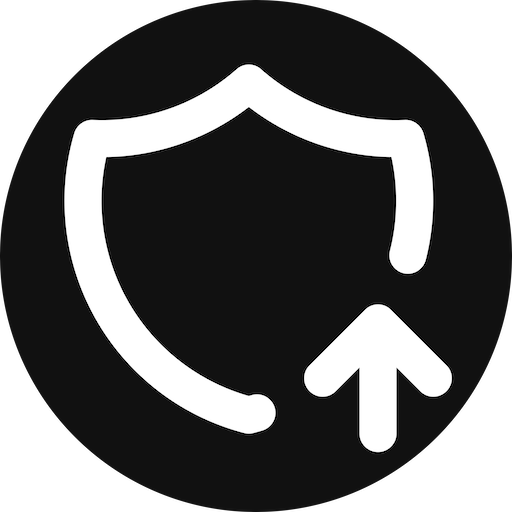
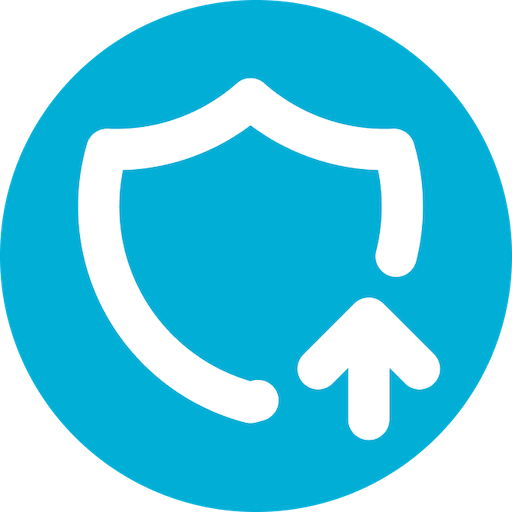
fix: initialize

diff --git a/src/options.tsx b/src/options.tsx
@@ -1,3 +1,5 @@
+import iconImageData from "data-base64:~assets/icon-min.png"
+
 import { useStorage } from "@plasmohq/storage/hook"
 
 import {
@@ -7,7 +9,7 @@ import {
 } from "~lib/constants"
 
 import "./style.css"
-import ShieldIcon from "~components/shieldIcon"
+
 
 function IndexOptions() {
   const [blackList, setBlackList] = useStorage<string | undefined>(
@@ -25,43 +27,67 @@ function IndexOptions() {
 
   return (
     <>
-    <div className="container mx-auto px-4 max-w-[1024px] py-10">
-      <h1 className="text-4xl font-bold flex gap-2 items-center"><ShieldIcon />IME Submit Blocker</h1>
-      <p className="text-sm mt-4">IMEでの日本語変換確定時のEnterでFormが送信されることを防ぐ拡張機能。※ 不具合、改善要望はGitHubの<a href="https://github.com/kawamataryo/ime-submit-blocker" className="link">Issue</a>へ。</p>
-      <div className="mt-8">
-        <label className="text-xl font-bold">Auto Apply</label>
-        <p className="text-sm">自動で適応するかどうか。ONの場合は、Black Listに登録されているサイトを除き自動的に適応する。</p>
-        <input
-          type="checkbox"
-          className="toggle toggle-success block mt-3"
-          checked={defaultBehavior}
-          onChange={(e) => setDefaultBehavior(e.target.checked)}
-        />
+      <div className="container mx-auto px-4 max-w-[1024px] py-10">
+        <h1 className="text-4xl font-bold flex gap-2 items-center">
+          <img src={iconImageData} alt="" className="w-[55px] mr-2" />
+          IME Submit Blocker
+        </h1>
+        <p className="text-sm mt-4">
+          IMEでの日本語変換確定時のEnterでFormが送信されることを防ぐ拡張機能。※
+          不具合、改善要望はGitHubの
+          <a
+            href="https://github.com/kawamataryo/ime-submit-blocker"
+            className="link">
+            Issue
+          </a>
+          へ。
+        </p>
+        <div className="mt-8">
+          <label className="text-xl font-bold">Auto Apply</label>
+          <p className="text-sm">
+            自動で適応するかどうか。ONの場合は、Black
+            Listに登録されているサイトを除き自動的に適応する。
+          </p>
+          <input
+            type="checkbox"
+            className="toggle toggle-success block mt-3"
+            checked={defaultBehavior}
+            onChange={(e) => setDefaultBehavior(e.target.checked)}
+          />
+        </div>
+        <div className="mt-8">
+          <label className="text-xl font-bold">Wait Time（ms）</label>
+          <p className="text-sm">
+            自動適応の際にスクリプトの実行をどれくらい待つか。入力欄が遅延して表示されるサイトへの対応。
+          </p>
+          <input
+            className="input input-bordered w-full block mt-3 dark:bg-slate-700"
+            type="number"
+            value={waitTime}
+            onChange={(e) => setWaitTime(Number(e.target.value))}></input>
+        </div>
+        <div className="mt-8">
+          <label className="text-xl font-bold">Black List</label>
+          <p className="text-sm">
+            {" "}
+            自動適応の際に除外するサイトの一覧。URLを改行区切りで入力。
+          </p>
+          <textarea
+            className="textarea textarea-bordered w-full mt-3 dark:bg-slate-700"
+            value={blackList}
+            rows={6}
+            onChange={(e) => setBlackList(e.target.value)}></textarea>
+        </div>
+        <div className="divider"></div>
+        <p className="text-sm text-right"></p>
       </div>
-      <div className="mt-8">
-        <label className="text-xl font-bold">Wait Time（ms）</label>
-        <p className="text-sm">自動適応の際にスクリプトの実行をどれくらい待つか。入力欄が遅延して表示されるサイトへの対応。</p>
-        <input
-          className="input input-bordered w-full block mt-3 dark:bg-slate-700"
-          type="number"
-          value={waitTime}
-          onChange={(e) => setWaitTime(Number(e.target.value))}></input>
-      </div>
-      <div className="mt-8">
-        <label className="text-xl font-bold">Black List</label>
-        <p className="text-sm"> 自動適応の際に除外するサイトの一覧。URLを改行区切りで入力。</p>
-        <textarea
-          className="textarea textarea-bordered w-full mt-3 dark:bg-slate-700"
-          value={blackList}
-          rows={6}
-          onChange={(e) => setBlackList(e.target.value)}></textarea>
-      </div>
-      <div className="divider"></div>
-      <p className="text-sm text-right"></p>
-
-    </div>
       <footer className="mt-10 text-center">
-        Created by <a href="https://github.com/kawamataryo" className="btn btn-link normal-case">kawamataryo</a>
+        Created by{" "}
+        <a
+          href="https://github.com/kawamataryo"
+          className="btn btn-link normal-case">
+          kawamataryo
+        </a>
       </footer>
     </>
   )

diff --git a/src/popup.tsx b/src/popup.tsx
@@ -1,11 +1,11 @@
 import "./style.css"
 
+import iconImageData from "data-base64:~assets/icon-min.png"
 import { useState } from "react"
 
 import { sendToContentScript } from "@plasmohq/messaging"
 import { Storage } from "@plasmohq/storage"
 
-import ShieldIcon from "~components/shieldIcon"
 import {
   BLACK_LIST_STORAGE_KEY,
   TOGGLE_IME_SUBMIT_BLOCK_MESSAGE_NAME
@@ -31,7 +31,7 @@ function IndexPopup() {
     setNotification(message)
     setTimeout(() => {
       setNotification("")
-    }, 2000)
+    }, 2500)
   }
 
   const addBlackList = async () => {
@@ -48,17 +48,17 @@ function IndexPopup() {
         await storage.set(BLACK_LIST_STORAGE_KEY, currentUrl.origin)
       }
       await toggleIMESubmitBlock(false)
-      showNotification(`Added ${currentUrl.origin} to Black List`)
+      showNotification(`Added \n${currentUrl.origin}\n to Black List`)
     })
   }
 
   return (
     <div className="w-[270px] p-3">
       <h1 className="text-sm font-bold flex gap-1 items-center">
-        <ShieldIcon />
+        <img src={iconImageData} alt="" className="w-[26px] mr-1" />
         IME Submit Blocker
       </h1>
-      <div className="border p-2 grid gap-2 grid-cols-2 rounded mt-2">
+      <div className="border p-2 grid gap-2 grid-cols-2 rounded mt-2 border-base-content">
         <button
           className="btn btn-xs w-full btn-primary"
           onClick={() => {
@@ -68,7 +68,7 @@ function IndexPopup() {
           apply
         </button>
         <button
-          className="btn btn-xs w-full"
+          className="btn btn-xs w-full btn-primary btn-outline hover:!bg-transparent hover:!text-primary"
           onClick={() => {
             toggleIMESubmitBlock(false)
             showNotification("Blocker is disabled")
@@ -78,18 +78,38 @@ function IndexPopup() {
       </div>
       <div className="flex gap-2 mt-3 justify-between items-center">
         <button
-          className="btn btn-xs btn-outline text-right btn-secondary"
+          className="btn btn-xs btn-link text-base-content"
           onClick={() => addBlackList()}>
-          add black list
+          + add black list
         </button>
         <p className="link text-right" onClick={openOptionPage}>
-          open settings
+          <svg
+            xmlns="http://www.w3.org/2000/svg"
+            width="1.5em"
+            height="1.5em"
+            viewBox="0 0 24 24">
+            <path
+              fill="currentColor"
+              d="m9.25 22l-.4-3.2q-.325-.125-.613-.3t-.562-.375L4.7 19.375l-2.75-4.75l2.575-1.95Q4.5 12.5 4.5 12.337v-.674q0-.163.025-.338L1.95 9.375l2.75-4.75l2.975 1.25q.275-.2.575-.375t.6-.3l.4-3.2h5.5l.4 3.2q.325.125.613.3t.562.375l2.975-1.25l2.75 4.75l-2.575 1.95q.025.175.025.338v.674q0 .163-.05.338l2.575 1.95l-2.75 4.75l-2.95-1.25q-.275.2-.575.375t-.6.3l-.4 3.2h-5.5Zm2.8-6.5q1.45 0 2.475-1.025T15.55 12q0-1.45-1.025-2.475T12.05 8.5q-1.475 0-2.488 1.025T8.55 12q0 1.45 1.012 2.475T12.05 15.5Z"></path>
+          </svg>
         </p>
       </div>
       {notification && (
-        <div className="fixed top-0 left-0 w-full h-full flex items-center justify-center bg-[rgba(0,0,0,0.7)]">
-          <div className="text-white p-4 shadow-lg animate-fade-in-down font-bold">
-            <p>{notification}</p>
+        <div className="fixed top-0 left-0 w-full h-full flex items-center justify-center bg-[rgba(100,100,100,0.3)] p-3">
+          <div className="text-base-content p-4 shadow-lg animate-fade-in-down font-bold bg-base-100 rounded">
+            <p className="flex items-center gap-1">
+              <svg
+                className="w-[30px] text-primary"
+                xmlns="http://www.w3.org/2000/svg"
+                width="1.5em"
+                height="1.5em"
+                viewBox="0 0 24 24">
+                <path
+                  fill="currentColor"
+                  d="m10 17l-5-5l1.41-1.42L10 14.17l7.59-7.59L19 8m-7-6A10 10 0 0 0 2 12a10 10 0 0 0 10 10a10 10 0 0 0 10-10A10 10 0 0 0 12 2Z"></path>
+              </svg>
+              {notification}
+            </p>
           </div>
         </div>
       )}

diff --git a/src/content.ts b/src/content.ts
@@ -1,6 +1,9 @@
-import { INITIALIZE_SUBMIT_BLOCK_MESSAGE_NAME, TOGGLE_IME_SUBMIT_BLOCK_MESSAGE_NAME } from "~lib/constants"
+import {
+  INITIALIZE_SUBMIT_BLOCK_MESSAGE_NAME,
+  TOGGLE_IME_SUBMIT_BLOCK_MESSAGE_NAME
+} from "~lib/constants"
 import { preventEnterOnIME } from "~lib/preventEnterOnIME"
-import { isBlackListed, isAutoApply, wait, log } from "~lib/utils"
+import { isAutoApply, isBlackListed, log, wait } from "~lib/utils"
 
 let abortController: AbortController | null = null
 
@@ -17,35 +20,34 @@ const disableBlocker = () => {
   log("[IMESubmitBlocker] Disabled IME submit block 🗑")
 }
 
+const initializeBlocker = async () => {
+  if (!(await isAutoApply())) {
+    return
+  }
+  if (await isBlackListed()) {
+    log("[IMESubmitBlocker] Current url is registered black list 📝")
+    return
+  }
+  await wait()
+  enableBlocker()
+}
+
 chrome.runtime.onMessage.addListener(async (message) => {
   switch (message.name) {
     case TOGGLE_IME_SUBMIT_BLOCK_MESSAGE_NAME:
       if (message.body.isBlocked) {
         enableBlocker()
-      } else{
+      } else {
         disableBlocker()
       }
       break
     case INITIALIZE_SUBMIT_BLOCK_MESSAGE_NAME:
-      if (! await isBlackListed()) {
-        await wait()
-        enableBlocker()
-      }
+      await initializeBlocker()
       break
     default:
       throw new Error("Unknown message name")
   }
 })
-
-
 ;(async () => {
-  if (await isBlackListed()) {
-    log("[IMESubmitBlocker] Current url is registered black list 📝")
-    return
-  }
-  if (!await isAutoApply()) {
-    return
-  }
-  await wait()
-  enableBlocker()
+  await initializeBlocker()
 })()

diff --git a/tailwind.config.js b/tailwind.config.js
@@ -5,7 +5,25 @@ module.exports = {
   content: ["./**/*.tsx"],
   plugins: [require("daisyui")],
   daisyui: {
-    themes: ["winter", "night"],
-    darkTheme: "night",
+    themes: [
+      {
+        winter: {
+          ...require("daisyui/src/colors/themes")["[data-theme=winter]"],
+          primary: "#00B4DB"
+        }
+      },
+      {
+        night: {
+          ...require("daisyui/src/colors/themes")["[data-theme=night]"],
+          primary: "#00B4DB"
+        }
+      }
+    ],
+    darkTheme: "night"
   },
+  extend: {
+    colors: {
+      primary: "#01AED6"
+    }
+  }
 }

diff --git a/src/background.ts b/src/background.ts
@@ -1,12 +1,8 @@
 import { sendToContentScript } from "@plasmohq/messaging"
 import { INITIALIZE_SUBMIT_BLOCK_MESSAGE_NAME } from "~lib/constants"
-import { isAutoApply } from "~lib/utils"
 
 // SPAでのページ遷移への対応
 (async () => {
-  if (!await isAutoApply()) {
-    return
-  }
   chrome.history.onVisited.addListener(
     async () => {
       await sendToContentScript({
